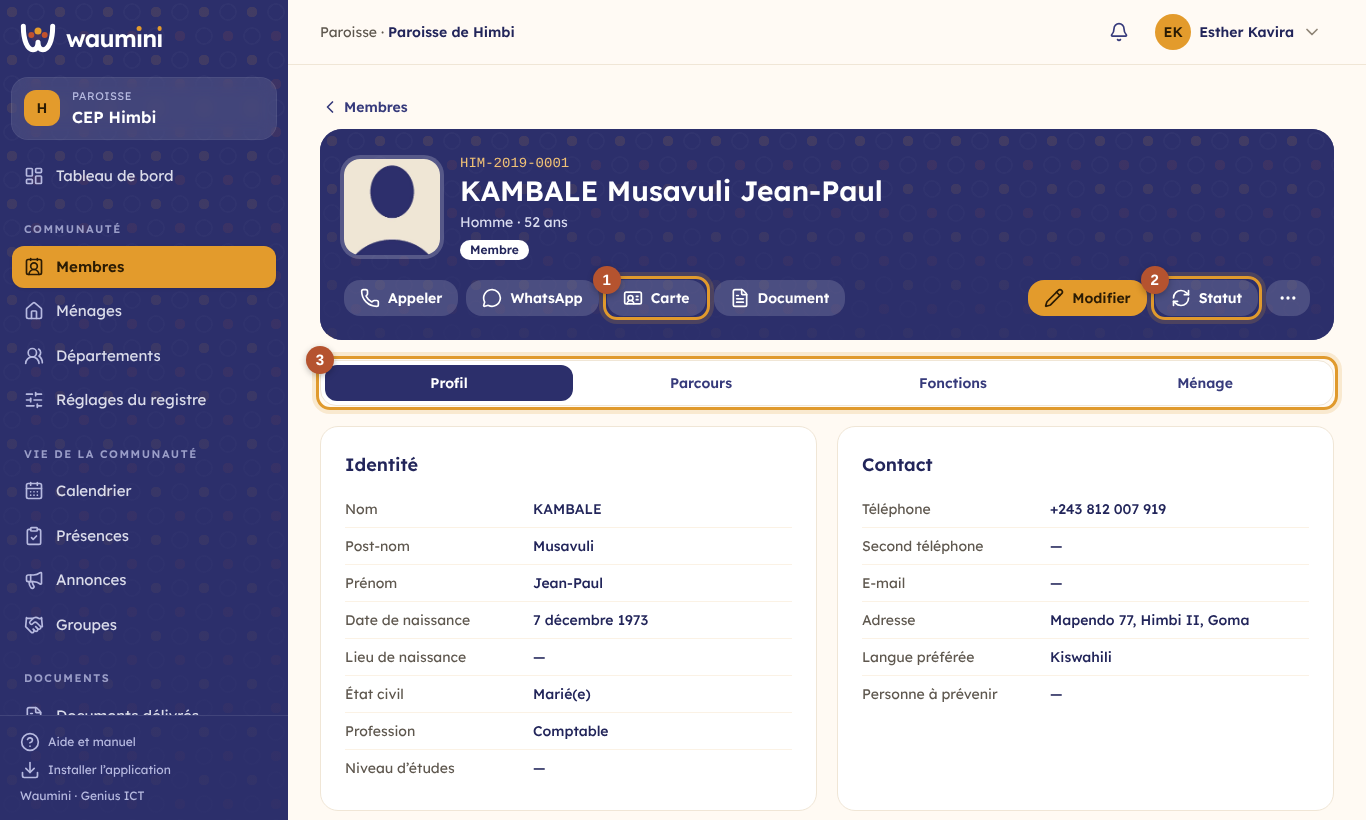
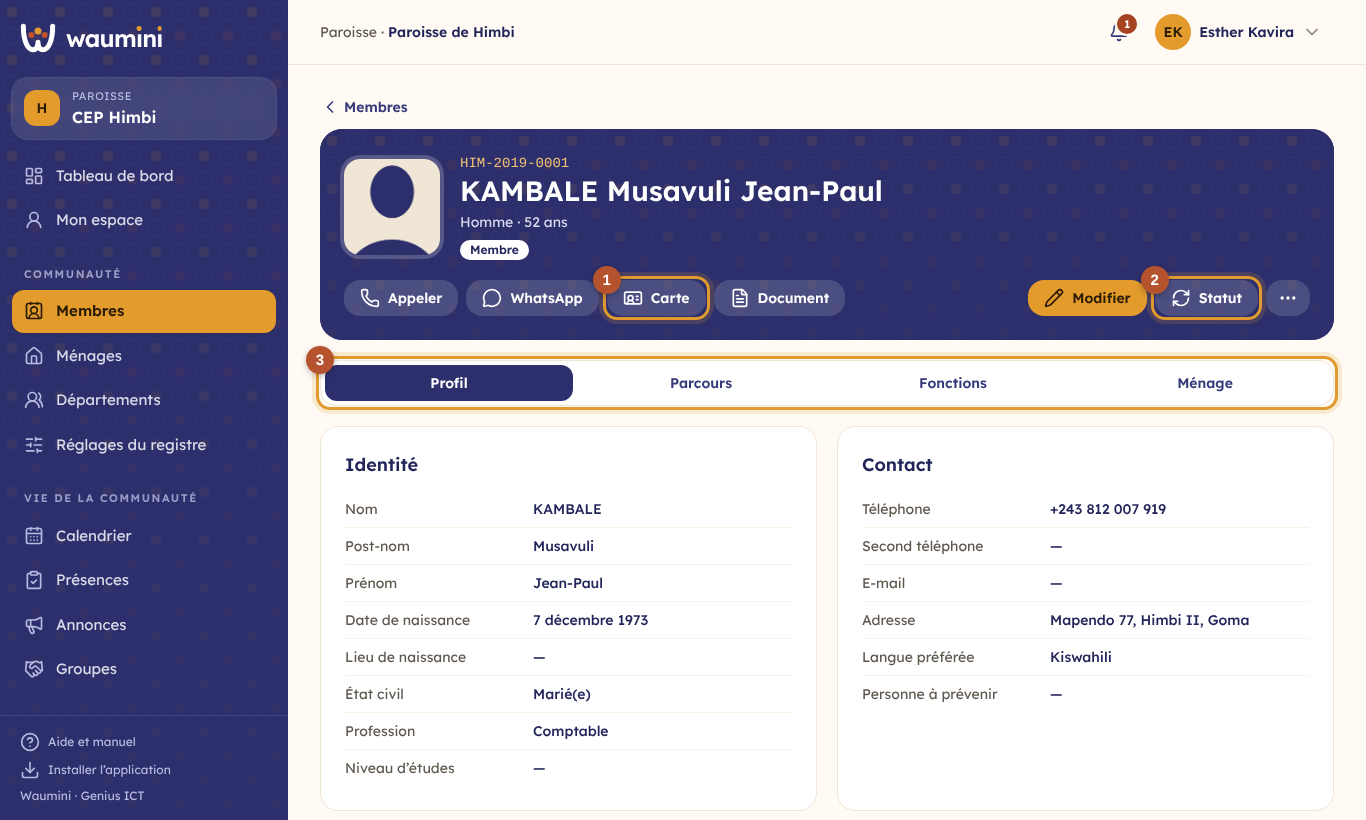
Cotisations des groupes, pied de page des documents, manuel du suivi pastoral
Cotisation mensuelle facultative par groupe : le responsable coche les
mois payés, le total reçu s'affiche. Les attestations et lettres ont leur
propre texte de bas de page, distinct de celui des reçus. Deux chapitres
illustrés (31 et 32) : suivi pastoral et espace membre ; groupes,
paramètres, sommaire et feuille de route mis à jour.

Claude-Session: https://claude.ai/code/session_01RmE888MJymYsdYztvNtvNP

diff --git a/docs/feuille-de-route.html b/docs/feuille-de-route.html
@@ -159,7 +159,7 @@ footer { margin-top: 56px; padding-top: 18px; border-top: 1px solid var(--line);
       <circle cx="80" cy="56" r="9" style="fill: var(--terra)"/>
     </svg>
     <span class="brand">waumini</span>
-    <span class="by">Genius ICT · Goma, Nord-Kivu<br>Mise à jour : octobre 2026, documents et registres livrés</span>
+    <span class="by">Genius ICT · Goma, Nord-Kivu<br>Mise à jour : octobre 2026, suivi pastoral et espace membre livrés</span>
   </header>
 
   <div class="hero">
@@ -272,10 +272,10 @@ const BLOCKS = [
       goal: "Une attestation en une minute, vérifiable par QR code.",
       items: ["Neuf modèles fournis : attestations d’appartenance, de baptême, de présentation d’enfant, de service, certificat de mariage, lettre de recommandation, ordre de mission, convocation, lettre", "Modèles du siège valables pour toutes ses paroisses ; chacune les adapte ou crée les siens (attestation de choriste, carte de service…)", "Texte à variables avec accords (né ou née, il ou elle), champs propres au modèle, aperçu sur une vraie fiche", "Numérotation réglable par modèle (code, sigle, année, numéro), remise à 1 chaque année", "Document délivré : texte figé, imprimé sur l’en-tête de la communauté, signé à la main, avec QR code ; annulation avec motif", "Page publique de vérification : authentique, annulé ou inconnu, sans montrer le texte", "Anciens registres papier recopiés acte par acte avec une saisie rapide ; recherche dans tous les registres ; actes reliés aux fiches", "Réédition d’une attestation à partir d’un acte ancien, même pour qui n’est plus membre ; 2 nouveaux chapitres du manuel"],
       demo: "Livré : le baptême de Josias, inscrit en 1998 dans le vieux cahier de Himbi, réédité avec son QR code et vérifié depuis un téléphone ; 199 tests automatiques." },
-    { status: "todo", title: "Suivi pastoral et espace membre",
+    { status: "done", title: "Suivi pastoral et espace membre",
       goal: "Accompagner chacun ; donner à chaque membre sa part d’accès.",
-      items: ["Visites, malades, deuils, parcours des catéchumènes, demandes de prière", "Notes confidentielles : leur auteur seul, jamais exportées, même pas pour le support", "Espace membre : sa fiche, ses contributions et reçus, ses promesses, programme et annonces, demandes de prière et d’attestation", "Langue choisie par chaque membre", "Rappels d’anniversaires et cotisations des groupes (reportés du module Groupes)"],
-      demo: "Un membre se connecte avec son empreinte et retrouve ses reçus." }
+      items: ["Suivis : visites, malades, deuils, catéchumènes, accompagnement, nouveaux venus ; prochaine visite, visites en retard signalées, suivi confié à un membre de l’équipe", "Notes confidentielles chiffrées : leur auteur seul, jamais exportées, même pas pour le support", "Demandes de prière confidentielles à l’équipe ; un mot revient à la personne", "Anniversaires du mois avec vœux par WhatsApp, et rappel chaque matin des anniversaires du jour", "Espace membre ouvert par le secrétariat (mot de passe provisoire envoyé par WhatsApp) : carte, dons et reçus, promesses, programme et inscriptions, annonces", "Demandes de prière et d’attestation depuis l’espace membre, délivrées ou refusées avec motif, la personne prévenue", "Langue choisie par chaque membre ; cotisations mensuelles des groupes ; pied de page propre aux documents", "2 nouveaux chapitres du manuel"],
+      demo: "Livré : Grâce ouvre son espace sur son téléphone, retrouve ses reçus et demande son attestation ; le pasteur suit Maman Rebecca à l’hôpital avec une note que lui seul lit ; 205 tests automatiques." }
   ]},
   { letter: "Bloc 4", title: "Le réseau et la plateforme", steps: [
     { status: "todo", title: "Consolidation multi-paroisses",
@@ -369,6 +369,8 @@ const DECISIONS = [
   ]],
   ["Membres et communication", [
     "Les membres ont un accès limité : leur fiche, leurs contributions et reçus, leurs promesses, le programme, les annonces, les demandes de prière et d’attestation.",
+    "L’espace d’un membre est ouvert par le secrétariat ; un membre sans autre rôle arrive directement dans son espace.",
+    "Les notes pastorales confidentielles sont chiffrées et ne se lisent que par leur auteur ; les demandes de prière restent à l’équipe pastorale.",
     "Connexion par téléphone et mot de passe, puis empreinte du téléphone.",
     "Pas de paiement en ligne dans l’espace membre pour l’instant.",
     "La communication passe par les notifications de l’application, avec envoi manuel sur WhatsApp en complément.",

diff --git a/resources/views/livewire/groups/show.blade.php b/resources/views/livewire/groups/show.blade.php
@@ -51,6 +51,38 @@
                 </section>
             @endif
 
+            @if ($group->dues_amount)
+                <section class="card min-w-0 overflow-hidden">
+                    <div class="px-5 pb-2 pt-5 sm:px-6">
+                        <h2 class="text-lg">{{ __('Cotisations') }}</h2>
+                        <p class="text-sm text-sand-700">{{ __(':m par mois. Touchez une case pour marquer la cotisation payée.', ['m' => \App\Support\Money::format($group->dues_amount, $group->dues_currency)]) }}</p>
+                    </div>
+                    <div class="overflow-x-auto">
+                        <table class="w-full text-sm">
+                            <thead><tr class="text-left text-xs text-sand-700"><th class="px-5 py-2 font-semibold sm:px-6">{{ __('Personne') }}</th>@foreach ($periods as $p)<th class="px-2 py-2 text-center font-semibold">{{ ucfirst($p->translatedFormat('M')) }}</th>@endforeach</tr></thead>
+                            <tbody class="divide-y divide-sand-100">
+                                @foreach ($people as $m)
+                                    <tr wire:key="due-{{ $m->id }}">
+                                        <td class="max-w-40 truncate px-5 py-2 font-semibold text-ink-700 sm:px-6">{{ $m->fullName() }}</td>
+                                        @foreach ($periods as $p)
+                                            @php $paid = isset($dues[$m->id.'|'.$p->format('Y-m')]); @endphp
+                                            <td class="px-2 py-1.5 text-center">
+                                                <button type="button" @if ($canManage) wire:click="toggleDue({{ $m->id }}, '{{ $p->format('Y-m') }}')" @else disabled @endif
+                                                    @class(['grid size-8 mx-auto place-items-center rounded-lg', 'bg-leaf-500 text-white' => $paid, 'bg-sand-100 text-sand-400' => ! $paid])
+                                                    aria-label="{{ $paid ? __(':p a payé :m', ['p' => $m->fullName(), 'm' => $p->translatedFormat('F')]) : __(':p n’a pas payé :m', ['p' => $m->fullName(), 'm' => $p->translatedFormat('F')]) }}">
+                                                    <x-icon :name="$paid ? 'check' : 'x'" class="size-4" />
+                                                </button>
+                                            </td>
+                                        @endforeach
+                                    </tr>
+                                @endforeach
+                            </tbody>
+                            <tfoot><tr class="border-t-2 border-sand-200 text-xs text-sand-700"><td class="px-5 py-2 sm:px-6">{{ __('Reçu') }}</td>@foreach ($periods as $p)<td class="px-2 py-2 text-center font-semibold text-ink-700 tabular">{{ \App\Support\Money::format($dues->filter(fn ($d, $k) => str_ends_with($k, '|'.$p->format('Y-m')))->flatten()->sum('amount'), $group->dues_currency) }}</td>@endforeach</tr></tfoot>
+                        </table>
+                    </div>
+                </section>
+            @endif
+
             <section class="card p-5 sm:p-6">
                 <div class="mb-3 flex flex-wrap items-center justify-between gap-2">
                     <h2 class="text-lg">{{ __('Rencontres') }}</h2>

diff --git a/app/Livewire/Groups/Show.php b/app/Livewire/Groups/Show.php
@@ -5,6 +5,7 @@ namespace App\Livewire\Groups;
 use App\Livewire\Concerns\WritesInOrganization;
 use App\Models\Department;
 use App\Models\Group;
+use App\Models\GroupDue;
 use App\Models\GroupMeeting;
 use App\Models\Member;
 use App\Services\Groups;
@@ -47,6 +48,7 @@ class Show extends Component
         $this->form = $this->group->only(['name', 'kind', 'place']) + [
             'department_id' => $this->group->department_id ?? '', 'meeting_day' => $this->group->meeting_day ?? '',
             'meeting_time' => $this->group->meeting_time ? substr($this->group->meeting_time, 0, 5) : '', 'description' => (string) $this->group->description,
+            'dues_amount' => $this->group->dues_amount ?? '', 'dues_currency' => $this->group->dues_currency ?? 'USD',
         ];
         $this->resetValidation();
         $this->dispatch('open-modal', name: 'group');
@@ -164,6 +166,16 @@ class Show extends Component
         $this->notify(__('Rencontre notée : :p présents sur :t.', ['p' => $meeting->presentCount(), 't' => $meeting->attendances->count()]));
     }
 
+    public function toggleDue(Groups $groups, int $memberId, string $period): void
+    {
+        $this->authorizeManage();
+        try {
+            $groups->toggleDue($this->group, $memberId, $period);
+        } catch (InvalidArgumentException $e) {
+            $this->notify($e->getMessage(), 'error');
+        }
+    }
+
     public function deleteMeeting(int $id): void
     {
         $this->authorizeManage();
@@ -201,6 +213,9 @@ class Show extends Component
             'meetings' => $this->group->meetings()->with('attendances')->paginate(10),
             'absentees' => $groups->absentees($this->group),
             'rate' => $groups->rate($this->group),
+            'periods' => collect(range(3, 0))->map(fn ($i) => now()->startOfMonth()->subMonths($i)),
+            'dues' => $this->group->dues_amount ? GroupDue::where('group_id', $this->group->id)->where('period', '>=', now()->startOfMonth()->subMonths(3)->format('Y-m'))->get()
+                ->groupBy(fn ($d) => $d->member_id.'|'.$d->period) : collect(),
             'canManage' => $writable && GroupAccess::canManage($user, $organization, $this->group),
             'canSetUp' => $writable && GroupAccess::canSetUp($user, $organization, $this->group) && $user->can('groups.manage'),
             'departments' => Department::where('is_active', true)->when(! $full, fn ($q) => $q->whereIn('id', GroupAccess::departments($user, $organization)))->orderBy('name')->get(),

diff --git a/app/Services/Groups.php b/app/Services/Groups.php
@@ -4,6 +4,7 @@ namespace App\Services;
 
 use App\Models\Group;
 use App\Models\GroupAttendance;
+use App\Models\GroupDue;
 use App\Models\GroupMeeting;
 use App\Models\Member;
 use App\Models\Organization;
@@ -145,6 +146,27 @@ class Groups
         return $expected ? (int) round($meetings->sum('present_count') / $expected * 100) : null;
     }
 
+    /** Marque la cotisation d'un mois payée, ou l'annule si elle l'était. */
+    public function toggleDue(Group $group, int $memberId, string $period): bool
+    {
+        if (! $group->dues_amount || ! preg_match('/^\d{4}-\d{2}$/', $period)) {
+            throw new InvalidArgumentException(__('Ce groupe n’a pas de cotisation.'));
+        }
+        if (! $this->people($group)->contains('id', $memberId)) {
+            throw new InvalidArgumentException(__('Ce membre n’est pas dans le groupe.'));
+        }
+        $existing = GroupDue::where('group_id', $group->id)->where('member_id', $memberId)->where('period', $period)->first();
+        if ($existing) {
+            $existing->delete();
+
+            return false;
+        }
+        GroupDue::create(['group_id' => $group->id, 'member_id' => $memberId, 'period' => $period, 'amount' => $group->dues_amount,
+            'currency' => $group->dues_currency, 'paid_on' => today(), 'recorded_by' => auth()->id()]);
+
+        return true;
+    }
+
     private function settings(array $data): array
     {
         return [
@@ -154,6 +176,8 @@ class Groups
             'meeting_day' => ($data['meeting_day'] ?? '') === '' || ($data['meeting_day'] ?? null) === null ? null : (int) $data['meeting_day'],
             'meeting_time' => ($data['meeting_time'] ?? null) ?: null,
             'place' => trim((string) ($data['place'] ?? '')) ?: null,
+            'dues_amount' => (float) ($data['dues_amount'] ?? 0) > 0 ? $data['dues_amount'] : null,
+            'dues_currency' => (float) ($data['dues_amount'] ?? 0) > 0 ? ($data['dues_currency'] ?? 'USD') : null,
         ];
     }
 

diff --git a/app/Livewire/Settings/Edit.php b/app/Livewire/Settings/Edit.php
@@ -67,6 +67,8 @@ class Edit extends Component
 
     public string $footer = '';
 
+    public string $documentFooter = '';
+
     public string $receiptFormat = 'a4';
 
     public $logo = null;
@@ -97,6 +99,7 @@ class Edit extends Component
         $display = $identity->display();
         $this->display = collect(DocumentIdentity::DISPLAY)->mapWithKeys(fn ($d, $k) => [$k => $display[$k]])->all();
         $this->footer = $display['footer'];
+        $this->documentFooter = $display['document_footer'];
         $this->receiptFormat = $display['receipt_format'];
     }
 
@@ -106,6 +109,7 @@ class Edit extends Component
         $this->validate([
             'legal.*' => 'nullable|string|max:255',
             'footer' => 'nullable|string|max:300',
+            'documentFooter' => 'nullable|string|max:300',
             'receiptFormat' => ['required', Rule::in(array_keys(DocumentIdentity::RECEIPT_FORMATS))],
             'logo' => 'nullable|image|max:4096',
         ], attributes: ['logo' => __('logo'), 'footer' => __('texte de pied de page')]);
@@ -120,6 +124,7 @@ class Edit extends Component
         $settings['documents'] = [
             'show' => collect($this->display)->only(array_keys(DocumentIdentity::DISPLAY))->map(fn ($v) => (bool) $v)->all(),
             'footer' => trim($this->footer) ?: null,
+            'document_footer' => trim($this->documentFooter) ?: null,
             'receipt_format' => $this->receiptFormat,
         ];
 

diff --git a/database/migrations/2026_10_20_000300_create_group_dues.php b/database/migrations/2026_10_20_000300_create_group_dues.php
@@ -1,0 +1,36 @@
+<?php
+
+use Illuminate\Database\Migrations\Migration;
+use Illuminate\Database\Schema\Blueprint;
+use Illuminate\Support\Facades\Schema;
+
+return new class extends Migration
+{
+    public function up(): void
+    {
+        // La cotisation d'un groupe (facultative) : un montant par mois, tenu par le responsable.
+        Schema::table('groups', function (Blueprint $table) {
+            $table->decimal('dues_amount', 12, 2)->nullable()->after('place');
+            $table->char('dues_currency', 3)->nullable()->after('dues_amount');
+        });
+
+        Schema::create('group_dues', function (Blueprint $table) {
+            $table->id();
+            $table->foreignId('group_id')->constrained()->cascadeOnDelete();
+            $table->foreignId('member_id')->constrained()->cascadeOnDelete();
+            $table->char('period', 7);
+            $table->decimal('amount', 12, 2);
+            $table->char('currency', 3);
+            $table->date('paid_on');
+            $table->foreignId('recorded_by')->nullable()->constrained('users')->nullOnDelete();
+            $table->timestamps();
+            $table->unique(['group_id', 'member_id', 'period']);
+        });
+    }
+
+    public function down(): void
+    {
+        Schema::dropIfExists('group_dues');
+        Schema::table('groups', fn (Blueprint $table) => $table->dropColumn(['dues_amount', 'dues_currency']));
+    }
+};

diff --git a/resources/views/livewire/groups/partials/form-modal.blade.php b/resources/views/livewire/groups/partials/form-modal.blade.php
@@ -38,6 +38,10 @@
             <div><label for="g-time" class="label">{{ __('Heure') }}</label><input wire:model="form.meeting_time" id="g-time" type="time" class="input">@error('form.meeting_time') <p class="error">{{ $message }}</p> @enderror</div>
             <div><label for="g-place" class="label">{{ __('Lieu') }}</label><input wire:model="form.place" id="g-place" class="input" placeholder="{{ __('Chez…, salle…') }}"></div>
         </div>
+        <div class="grid grid-cols-[2fr_1fr] gap-4">
+            <div><label for="g-dues" class="label">{{ __('Cotisation mensuelle') }} <span class="font-normal text-sand-700">{{ __('(facultatif)') }}</span></label><input wire:model="form.dues_amount" id="g-dues" type="number" step="0.01" min="0" class="input tabular" placeholder="0"></div>
+            <div><label for="g-cur" class="label">{{ __('Devise') }}</label><select wire:model="form.dues_currency" id="g-cur" class="input"><option value="USD">USD</option><option value="CDF">CDF</option></select></div>
+        </div>
         <div><label for="g-desc" class="label">{{ __('Description') }}</label><textarea wire:model="form.description" id="g-desc" rows="2" class="input"></textarea></div>
         <div class="flex flex-wrap justify-end gap-2">
             <button type="button" class="btn-ghost" @click="$dispatch('close-modal', { name: 'group' })">{{ __('Annuler') }}</button>

diff --git a/app/Services/DemoGroups.php b/app/Services/DemoGroups.php
@@ -3,6 +3,7 @@
 namespace App\Services;
 
 use App\Models\Department;
+use App\Models\Group;
 use App\Models\Member;
 use App\Models\Organization;
 use App\Support\CurrentOrganization;
@@ -57,6 +58,19 @@ class DemoGroups
                     $service->recordMeeting($group, ['held_on' => $date->toDateString(), 'visitors' => mt_rand(0, 3),
                         'topic' => ['La prière', 'Marc 4 : la semence', 'Le pardon', 'Psaume 23', 'Servir les autres', 'La foi d’Abraham', 'Jean 15 : le cep', 'Témoignages'][$week]], $attendance);
                     Carbon::setTestNow();
+                }
+            }
+
+            // La prière des mamans cotise 2 $ par mois ; la plupart sont à jour.
+            $mamans = Group::where('name', 'Prière des mamans')->first();
+            if ($mamans) {
+                $mamans->update(['dues_amount' => 2, 'dues_currency' => 'USD']);
+                foreach ($service->people($mamans) as $i => $m) {
+                    foreach (range(3, 0) as $back) {
+                        if ($i % 4 !== 3 || $back > 1) {
+                            $service->toggleDue($mamans, $m->id, now()->startOfMonth()->subMonths($back)->format('Y-m'));
+                        }
+                    }
                 }
             }
         });

diff --git a/resources/views/livewire/settings/edit.blade.php b/resources/views/livewire/settings/edit.blade.php
@@ -126,6 +126,8 @@
                     @endforeach
                     <div class="pt-2"><label for="footer" class="label">{{ __('Texte en bas des reçus') }}</label>
                         <textarea wire:model="footer" id="footer" rows="2" class="input" placeholder="{{ __('Exemple : Que Dieu bénisse le donateur joyeux. 2 Co 9.7') }}"></textarea></div>
+                    <div class="pt-2"><label for="documentFooter" class="label">{{ __('Texte en bas des attestations et lettres') }}</label>
+                        <textarea wire:model="documentFooter" id="documentFooter" rows="2" class="input" placeholder="{{ __('Exemple : Toute surcharge ou rature rend ce document nul.') }}"></textarea></div>
                     <div><label for="receiptFormat" class="label">{{ __('Format de reçu par défaut') }}</label>
                         <select wire:model="receiptFormat" id="receiptFormat" class="input">@foreach (\App\Support\DocumentIdentity::RECEIPT_FORMATS as $k => $l)<option value="{{ $k }}">{{ __($l) }}</option>@endforeach</select>
                         <p class="hint">{{ __('Les tickets 58 et 80 mm sont pour les imprimantes thermiques. Le format se change aussi au moment d’imprimer.') }}</p></div>

diff --git a/tests/Feature/GroupTest.php b/tests/Feature/GroupTest.php
@@ -5,6 +5,7 @@ namespace Tests\Feature;
 use App\Livewire;
 use App\Models\Department;
 use App\Models\Group;
+use App\Models\GroupDue;
 use App\Models\GroupMeeting;
 use App\Models\Member;
 use App\Models\Organization;
@@ -168,5 +169,20 @@ class GroupTest extends TestCase
 
         $this->expectException(InvalidArgumentException::class);
         $groups->recordMeeting($group, ['held_on' => today()->addDay()->toDateString()], []);
+    }
+
+    public function test_monthly_dues(): void
+    {
+        $group = $this->group(['dues_amount' => 2, 'dues_currency' => 'USD']);
+        $groups = app(Groups::class);
+        $groups->addMember($group, $this->ruth->id);
+
+        $this->assertTrue($groups->toggleDue($group, $this->ruth->id, '2026-10'));
+        $this->assertSame('2.00', GroupDue::sole()->amount);
+        $this->assertFalse($groups->toggleDue($group, $this->ruth->id, '2026-10'));
+        $this->assertSame(0, GroupDue::count());
+
+        $this->expectException(InvalidArgumentException::class);
+        $groups->toggleDue($group, $this->josue->id, '2026-10');
     }
 }

diff --git a/app/Support/DocumentIdentity.php b/app/Support/DocumentIdentity.php
@@ -68,7 +68,7 @@ class DocumentIdentity
         }
 
         return collect(self::DISPLAY)->mapWithKeys(fn ($d, $key) => [$key => (bool) ($saved['show'][$key] ?? $d[1])])->all()
-            + ['footer' => $saved['footer'] ?? '', 'receipt_format' => $saved['receipt_format'] ?? 'a4'];
+            + ['footer' => $saved['footer'] ?? '', 'document_footer' => $saved['document_footer'] ?? '', 'receipt_format' => $saved['receipt_format'] ?? 'a4'];
     }
 
     public function show(string $key): bool
@@ -148,6 +148,12 @@ class DocumentIdentity
         $legal = $this->legal();
 
         return $this->show('representative') ? ($legal['representative'] ?? null) : null;
+    }
+
+    /** Le texte en bas des attestations et lettres (celui des reçus est à part). */
+    public function documentFooter(): ?string
+    {
+        return trim((string) $this->display()['document_footer']) ?: null;
     }
 
     public function footer(): ?string

diff --git a/app/Services/DemoFinances.php b/app/Services/DemoFinances.php
@@ -43,7 +43,7 @@ class DemoFinances
                 'representative' => 'Rév. Émmanuel Muhindo',
                 'motto' => '« Que tout se fasse avec bienséance et avec ordre » 1 Co 14.40',
             ],
-            'settings' => array_merge($siege->settings ?? [], ['documents' => ['show' => [], 'footer' => 'Que Dieu bénisse le donateur joyeux. 2 Co 9.7', 'receipt_format' => 'a4']]),
+            'settings' => array_merge($siege->settings ?? [], ['documents' => ['show' => [], 'footer' => 'Que Dieu bénisse le donateur joyeux. 2 Co 9.7', 'document_footer' => 'Toute surcharge ou rature rend ce document nul. Vérifiez-le en scannant son QR code.', 'receipt_format' => 'a4']]),
         ]);
         if ($withFiles) {
             $siege->update(['logo_path' => $this->emblem($siege)]);
